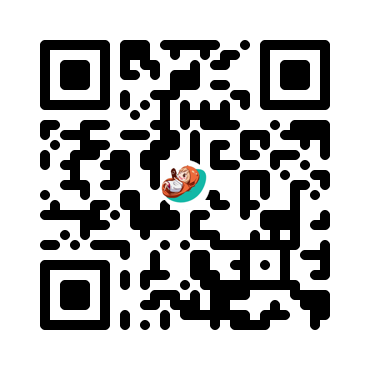
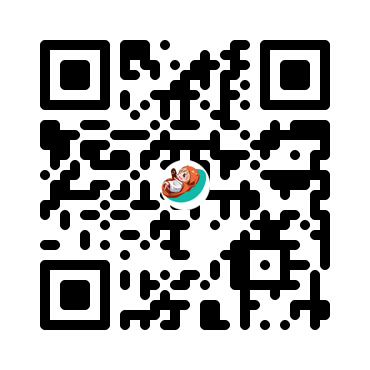
update

Changed region(s): [[0.0892, 0.0892, 0.8919, 0.8919], [0.7135, 0.5649, 0.773, 0.5946], [0.2973, 0.327, 0.327, 0.3865]]

diff --git a/python/qrImages.py b/python/qrImages.py
@@ -31,10 +31,10 @@ def addLogo(qr_code, gambar):
 # Menggabungkan tautan menjadi satu teks
 
 # Dana
-# combined_text = f"https://qr.dana.id/v1/281012012020050598122575"
+combined_text = f"https://qr.dana.id/v1/281012012020050598122575"
 
 # Gopay
-combined_text = f'{{"qr_id":"e965f700-50a9-4222-a0ac-05de2a287f4c"}}' 
+# combined_text = f'{{"qr_id":"e965f700-50a9-4222-a0ac-05de2a287f4c"}}' 
 
 # Membuat QR code
 qr = qrcode.QRCode(
@@ -56,5 +56,5 @@ qr_image = qr.make_image(
 
 logo = Image.open("image/g.png")
 qrCodeWithImage = addLogo(qr_image, logo)
-qrCodeWithImage.save("gopay.png")
+# qrCodeWithImage.save("gopay.png")
 qrCodeWithImage.save("dana.png")
